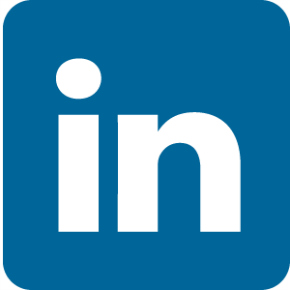
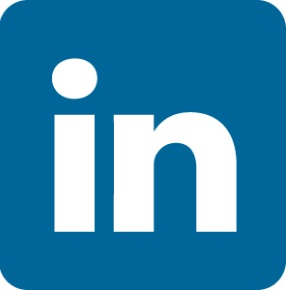
Minor changes

diff --git a/css/stylesheet.css b/css/stylesheet.css
@@ -72,7 +72,6 @@ h2 {
     font-family: Helvetica, Arial, sans-serif;
     font-style: oblique;
     font-weight: 500;
-    color: #303030;
     display: block;
     text-align: center;
     color: white;
@@ -81,7 +80,6 @@ h2 {
 #interestslist {
     font-family: Helvetica;
     font-weight: 600;
-    color: #202020;
     text-align: center;
     color: white;
 }
@@ -95,6 +93,6 @@ h2 {
 .social {
     height: 50px;
     width: 50px;
-    border-radius: 10px;
-    padding: 10px;
+    border-radius: 20px;
+    padding: 5px;
 }
